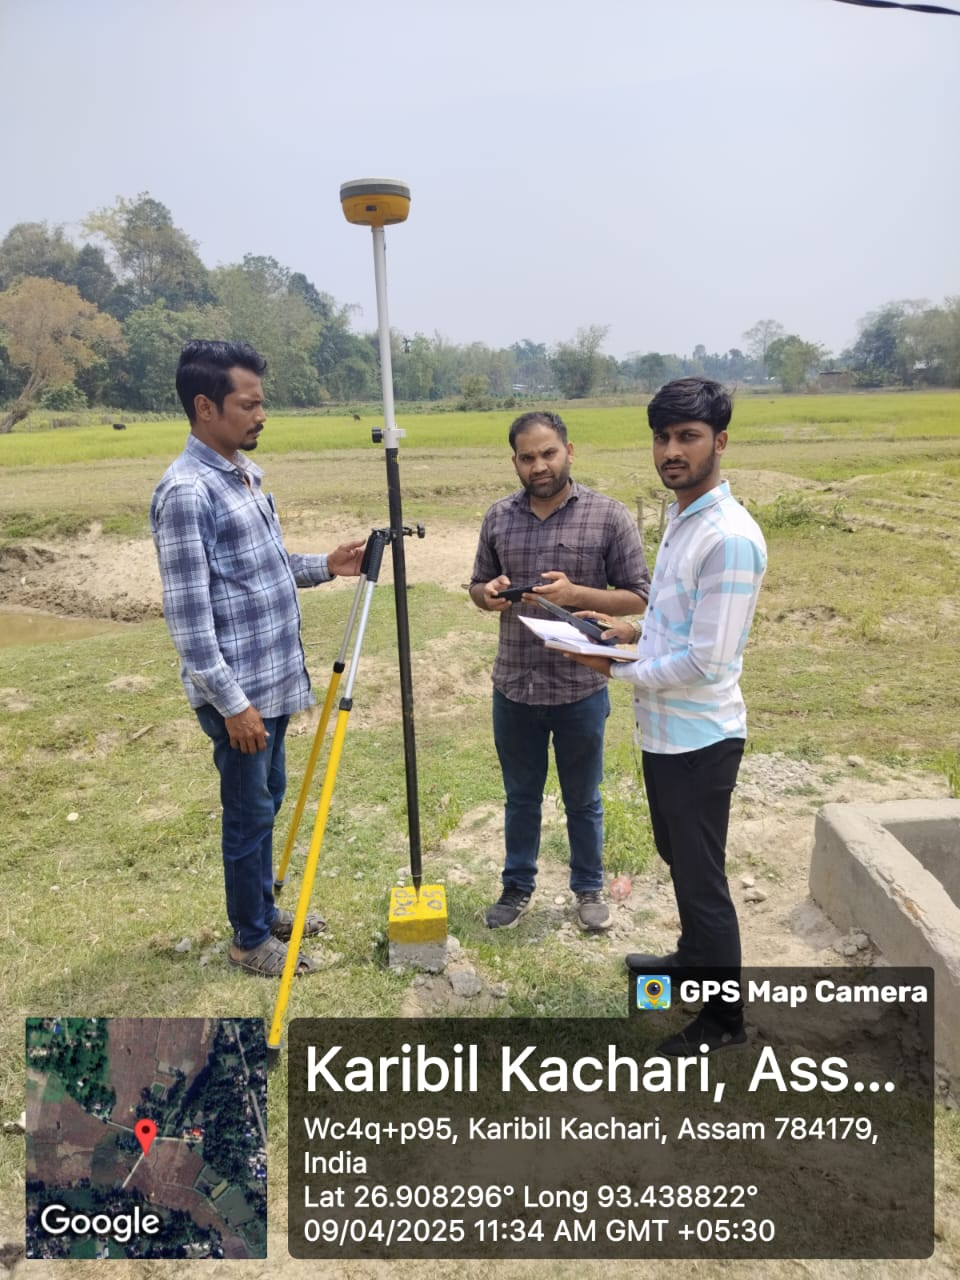
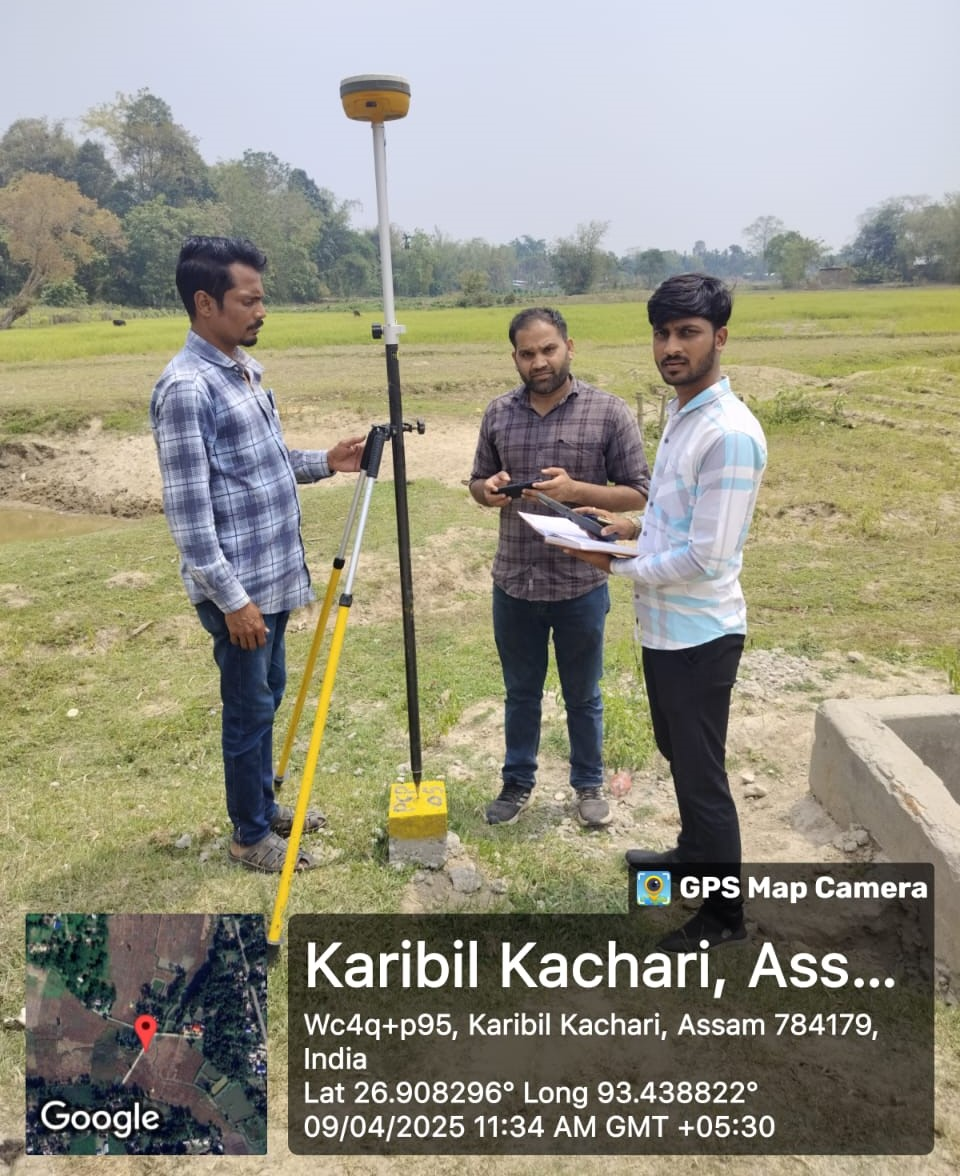
add

diff --git a/gallery.html b/gallery.html
@@ -110,10 +110,10 @@
       <img src="./assets/img/WhatsApp Chat with Buroi Assam AMDL (2)/img 6.jpg" alt="river img of mebo project">
       <img src="./assets/img/WhatsApp Chat with Buroi Assam AMDL (2)/img 7.jpg" alt="bench mark for dgps">
       <img src="./assets/img/WhatsApp Chat with Buroi Assam AMDL (2)/img 8.jpg" alt="details img of river">
-      <img src="./assets/img/WhatsApp Chat with Buroi Assam AMDL (2)/img 9.jpg" alt="bench mark for dgps">
+      <img src="./assets/img/WhatsApp Chat with Buroi Assam AMDL (2)/IMG-20250324-WA0003.jpg" alt="bench mark for dgps">
       <img src="./assets/img/WhatsApp Chat with Buroi Assam AMDL (2)/img 10.jpg" alt="bench mark for dgps">
       <img src="./assets/img/WhatsApp Chat with Buroi Assam AMDL (2)/img  11.jpg" alt="bench mark for dgps">
-      <img src="./assets/img/WhatsApp Chat with Buroi Assam AMDL (2)/img 12.jpg" alt="bench mark for dgps">
+      <img src="./assets/img/WhatsApp Chat with Buroi Assam AMDL (2)/IMG-20250409-WA0056.jpg" alt="bench mark for dgps">
 
     </div>
   

diff --git a/assets/css/style2.css b/assets/css/style2.css
@@ -42,7 +42,7 @@ h2 {
 
 .gallery img {
   width: 100%;
-  height: 450px;
+  height: 480px;
   object-fit: cover;
   border-radius: 5px;
 }
